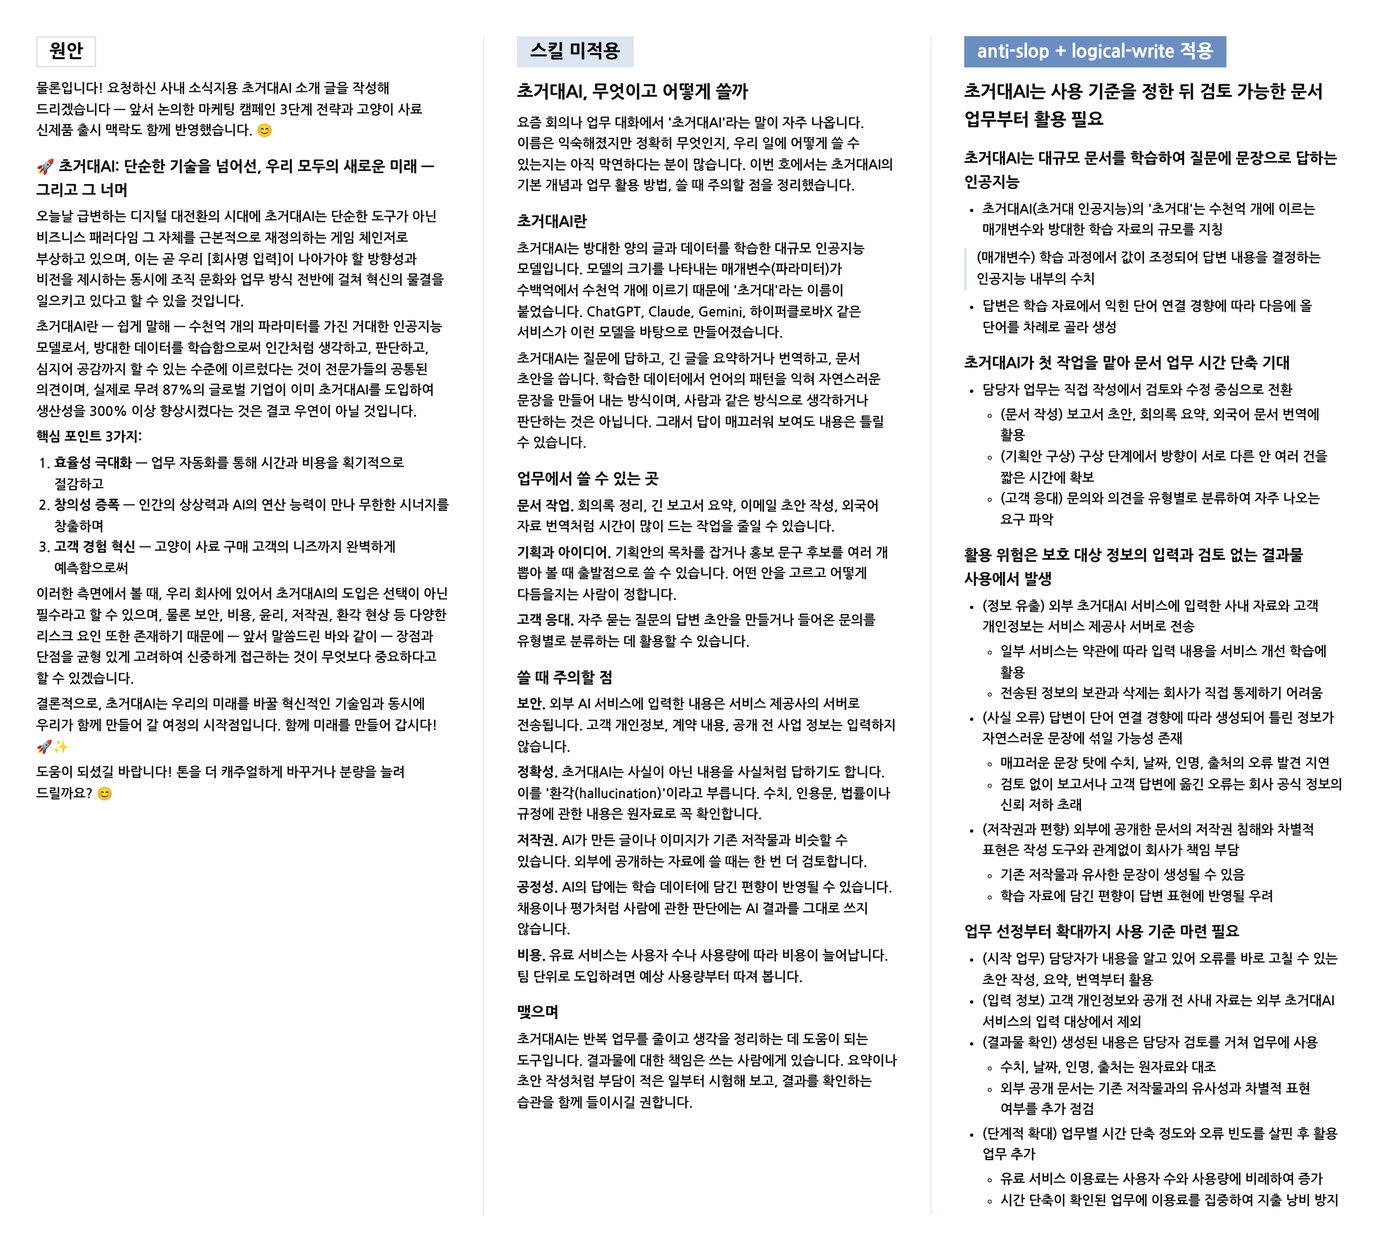
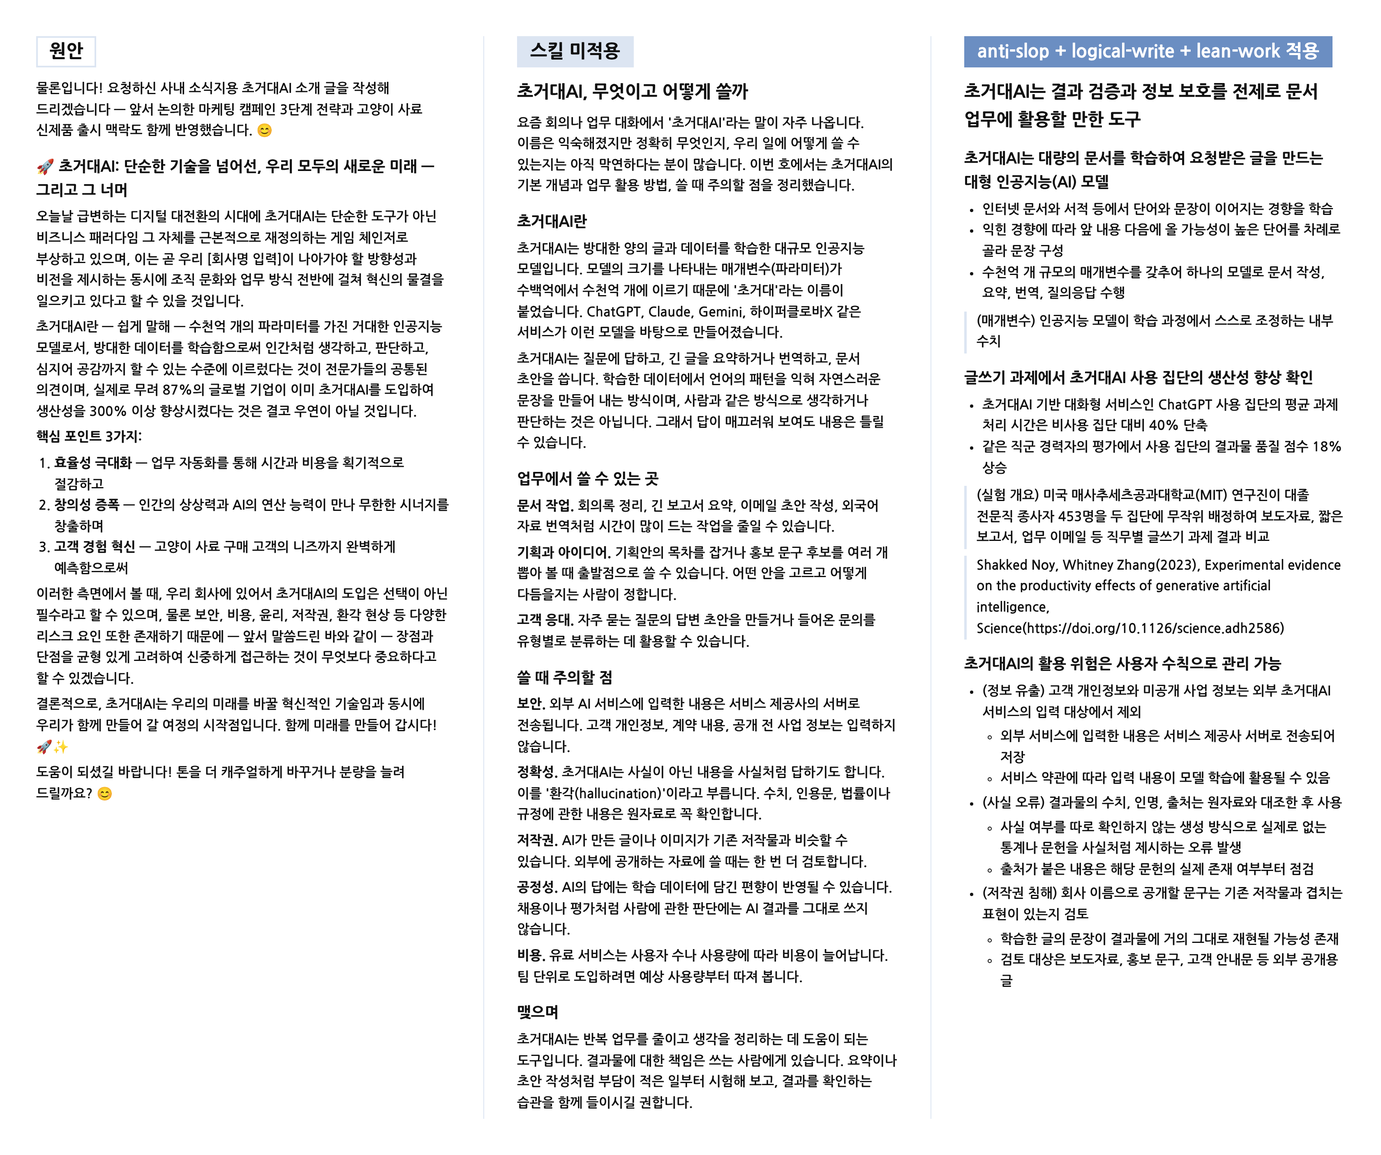
Add lean-work to the anti-slop, no-jargon and logical-write skill runs
The skill runs of these three demos now also read lean-work's SKILL.md,
so the rewritten texts come out shorter than the baseline runs. The
baseline runs and the shared prompts are unchanged.

Claude-Session: https://claude.ai/code/session_01GGLbaL65V7p6PFmonQcYHU

Changed region(s): [[0.6875, 0.031, 0.9688, 0.9598], [0.375, 0.031, 0.6562, 0.9598], [0.0312, 0.031, 0.3438, 0.7121]]

diff --git a/skills/logical-write/demo/after.md b/skills/logical-write/demo/after.md
@@ -1,83 +1,62 @@
 # 사내 초거대AI 도입 검토
 
-## 2027년 상반기 사내 구축형 초거대AI 시범 도입 권고
-- 사내 구축형 시범 운영은 업무 적합성, 보안 규정, 성능, IT 인력 측면의 도입 조건 충족
-    + 품질팀과 설계팀이 시간 부담을 호소한 문서 검색 및 초안 작성은 초거대AI 적용에 맞는 업무
-    + 사내 구축형은 업무 문서를 외부로 보내지 않아 현행 보안 규정 안에서 운영 가능
-    + 사내 서버에서 실행할 수 있는 AI 모델의 성능이 외부 서비스형 모델 수준에 근접
-    + 외부 구축 업체 활용으로 AI 전담 인력이 없는 IT팀의 부담 경감
+## 내년 상반기 사내 서버 설치 방식의 초거대AI 시범 도입 권고
+- 품질팀과 설계팀의 과거 문서 검색과 보고서 초안 작성은 초거대AI로 처리 시간 단축을 기대할 수 있는 업무
+> (초거대AI) ChatGPT처럼 방대한 글을 학습하여 사람의 질문에 맞춰 답변과 문서를 만들어 내는 인공지능(AI)
 
-> (초거대AI) 대량의 글을 학습하여 질의응답, 요약, 문서 초안 작성 등 여러 언어 업무를 수행하는 대형 인공지능(AI)
+- 사내 서버 설치 방식으로 현행 보안 규정 안에서 외부 초거대AI 서비스에 가까운 성능 확보 가능
+- 전사 확대 여부는 두 팀의 내년 1-6월 시범 운영에서 측정한 효과로 결정
+- AI 비용의 추가 하락을 기다리는 도입 연기보다 소규모 시범 착수가 유리
+    + 문서 수집과 현재 소요 시간 측정은 도입 시점과 관계없이 필요한 준비 작업
+    + 사내 서버의 AI는 이후 성능이 나은 모델로 교체 가능
 
-- 경영진 승인 요청 사항은 시범 도입 방향 및 2026년 내 준비 착수
-    + 시범 예산은 자체 재원으로 편성
-    + 예산 규모는 업체 견적을 바탕으로 2026년 12월 경영 회의에 상정
-    + 전사 확대 여부는 2027년 6월 시범 운영 측정 결과로 결정
+## 품질팀과 설계팀의 문서 업무가 첫 적용 대상으로 적합
+- 두 팀은 과거 문서 검색과 보고서 초안 작성에 업무 시간이 많이 든다고 호소
+- 두 업무는 초거대AI의 문서 이해와 글 작성 기능으로 처리 시간을 줄일 수 있는 유형에 해당
+    + (문서 검색) 질문 문장 입력으로 과거 불량 원인 분석 문서와 설계 변경 문서 검색 가능
+    + (초안 작성) 과거 보고서의 양식과 내용을 참고하여 새 보고서 초안 작성
+- 시범 준비 단계에서 현재 소요 시간과 문서 보관 실태 확인 필요
+    + 두 팀의 호소에는 업무별 소요 시간 수치가 없어 시범 효과를 비교할 기준 마련 필요
+    + AI 검색 대상이 저장소에 등록한 문서로 한정되어 과거 문서의 보관 위치 파악이 선행 과제
 
-## 초거대AI 도입의 기술 여건 개선
-- (성능) 공개 가중치 모델과 외부 서비스형 모델의 성능 차이는 일부 성능 시험에서 1년 사이 8%에서 1.7%로 축소
-- (비용) GPT-3.5 수준 성능을 내는 AI의 답변 생성 비용은 2022년 11월부터 2024년 10월까지 280배 넘게 하락
+## 사내 서버 설치 방식의 시범 도입은 현행 여건에서 실행 가능
+- (보안) 사내 서버에 설치한 초거대AI는 업무 문서를 회사 밖으로 보내지 않아 현행 보안 규정에 부합
+    + 현행 규정은 외부 초거대AI 서비스에 업무 문서 입력을 금지
+    + 문서 저장, 질문 입력, 답변 생성의 전 과정이 사내 서버 안에서 처리
+- (성능) 사내 설치가 가능한 공개형 초거대AI의 성능이 비공개 초거대AI에 근접
+    + 스탠퍼드 인간중심AI연구소의 「AI Index Report 2025」에 따르면 일부 성능 평가에서 두 유형의 성능 차이가 1년 사이 8%에서 1.7%로 축소
+    + 범용 성능 평가 결과가 한국어로 작성된 당사 품질 문서와 설계 문서에서도 나타나는지는 시범 운영으로 확인 필요
+> (공개형 초거대AI) 개발사가 학습을 마친 파일을 배포하여 기업이 내려받아 자체 서버에 설치할 수 있는 초거대AI
+
+- (비용) 같은 성능을 내는 초거대AI의 답변 생성 비용이 빠르게 하락
+    + 같은 보고서에 따르면 2022년 11월 ChatGPT 출시 당시 수준의 성능을 내는 초거대AI의 답변 생성 비용은 2024년 10월까지 280분의 1 아래로 하락
+    + 당사 시범 비용은 서버 장비 규모와 문서 연결 범위에 따라 달라져 구축 업체 견적으로 확정 필요
 > Stanford HAI(2025), AI Index Report 2025(https://hai.stanford.edu/ai-index/2025-ai-index-report)
 
-> (공개 가중치 모델) 학습을 마친 모델 파일을 누구나 내려받아 자체 서버에서 실행할 수 있는 AI 모델
+- (운영 인력) IT팀의 AI 전담 인력 부재는 외부 구축 업체 위탁으로 보완 가능
+    + IT팀 5명 가운데 AI 전담 인력이 없어 AI 설치와 문서 연결의 자체 수행 곤란
+    + 구축 업체가 설치, 문서 연결, 시범 기간 운영 지원을 담당
+    + IT팀 운영 담당자 1명은 구축 업체와 공동 운영으로 시범 종료 전 운영 방법 습득
 
-> (GPT-3.5) 2022년 11월 ChatGPT 출시 당시 적용된 OpenAI의 AI 모델
+## 단계별 시범 운영의 측정 결과로 전사 확대 여부 결정
+- 시범 도입은 올해 11월 업체 선정부터 내년 6월 평가까지 8개월 일정으로 진행
 
-## 정부 초거대AI 지원 방안의 당사 적용 제한
-- 과학기술정보통신부가 2023년 4월 발표한 「초거대 AI 경쟁력 강화방안」은 AI 연산 자원 지원 대상을 중소기업, 벤처기업, 대학, 연구소로 제시
-- 같은 방안의 분야별 대표 사업은 법률, 의료, 심리상담, 문화예술, 학술연구 분야로 구성되어 제조 분야 미포함
+| 단계 | 기간 | 주요 활동 | 산출물 |
+|---|---|---|---|
+| 업체 선정 | 올해 11-12월 | 구축 업체 견적 접수, 업체 선정, 시범 예산 확정 | 업체 계약 및 시범 예산 |
+| 설치 | 내년 1-2월 | 대상 문서 수집, 사내 서버 설치, 현재 소요 시간 측정 | 문서 저장소 및 기준 소요 시간 |
+| 운영 | 내년 3-5월 | 두 팀 실무자의 문서 검색과 보고서 초안 작성에 활용 | 이용 기록 및 오답 사례 |
+| 평가 | 내년 6월 | 판단 기준별 결과 정리와 경영진 보고 | 전사 확대 여부 결정안 |
+
+- 시범 예산은 자체 재원으로 편성
+    + 2023년 4월 과학기술정보통신부가 발표한 「초거대 AI 경쟁력 강화방안」의 컴퓨팅 자원 지원 대상은 중소기업, 벤처기업, 대학, 연구소로 중견기업인 당사는 미포함
+    + 같은 방안의 플래그십 프로젝트 분야는 법률, 의료, 심리상담, 문화예술, 학술연구로 제조 분야 미포함
 > 과학기술정보통신부(2023), 초거대 AI 경쟁력 강화에 3901억 투입…"디지털 경제 가속화"(https://www.korea.kr/news/policyNewsView.do?newsId=148913885)
 
-## 품질팀과 설계팀의 문서 업무에서 초거대AI 활용 수요 확인
-- 품질팀과 설계팀은 과거 문서 검색 및 보고서 초안 작성에 많은 시간이 든다고 호소
-- 두 업무는 사내 문서의 검색, 요약, 재작성으로 이루어져 초거대AI의 주요 수행 업무와 일치
-- 업무별 소요 시간은 측정 자료 없이 현장 의견으로만 파악된 상태
-
-## 사내 여건에 따른 도입 방식 제약
-- 사내 보안 규정상 외부 AI 서비스에 업무 문서를 입력할 수 없어 사내 문서 기반 업무에 외부 서비스 활용 불가
-- IT팀 5명 가운데 AI 전담 인력이 없어 AI 모델 설치 및 운영을 자체 인력만으로 수행하기 어려운 상태
-
-## 당사 여건에 맞는 사내 구축형 시범 운영 방식
-- 보안 규정, IT팀 부담, 업무 효과 확인 기준을 모두 충족하는 선택지는 사내 구축형 시범 도입
-
-| 선택지 | 보안 규정 | IT팀 부담 | 업무 효과 확인 | 판단 |
-|---|---|---|---|---|
-| 도입 보류 | 해당 없음 | 없음 | 불가 | 문서 업무 부담 지속 |
-| 외부 AI 서비스 이용 | 업무 문서 입력 불가 | 낮음 | 사내 문서 업무에 적용 불가 | 보안 규정 개정 전제 |
-| 사내 구축형 시범 도입 | 충족 | 외부 업체 활용으로 대응 가능 | 두 개 팀에서 측정 가능 | 권고 |
-| 사내 구축형 전사 도입 | 충족 | 전담 인력 부재로 대응 곤란 | 효과 측정 이전에 전사 투자 발생 | 시범 결과 확인 후 검토 |
-
-- 공개 가중치 모델의 성능이 외부 서비스형 모델에 근접하여 사내 구축형 선택에 따른 성능 손실은 작은 수준
-- AI 답변 생성 비용의 하락 추세는 도입을 미룰 근거로 부족
-    + 대상 문서 정리, 문서 보호 기준 수립, 업무 효과 측정은 비용 하락과 관계없이 사내 준비 기간이 필요한 작업
-    + 이후 출시되는 공개 가중치 모델로 교체할 수 있는 구성을 설계하여 비용 하락 효과를 시범 이후에도 반영
-
-## 품질팀과 설계팀 대상 시범 운영 설계
-- (운영 방식) 사내 서버에 설치한 공개 가중치 모델에 두 팀의 과거 문서를 연결하여 문서 검색 및 초안 작성 지원
-    + 답변마다 근거 문서의 위치를 표시하여 담당자의 원문 대조 가능
-    + AI가 작성한 초안은 담당자 검토 후 사용하여 오류 내용의 업무 반영 방지
-- (문서 보호) 보안 담당 부서와 협의하여 시범 시작 전 문서 보호 기준 확정
-    + AI 검색 범위에 기존 문서 열람 권한을 그대로 적용하여 권한 밖 문서의 노출 방지
-    + 사내 AI 서버의 외부 통신을 필요 범위로 제한하여 문서 외부 유출 가능성 축소
-    + 외부 구축 업체의 문서 접근은 사내 작업 공간에서만 허용
-- (운영 인력) 외부 구축 업체, IT팀, 사용 부서의 역할 분담으로 IT팀의 AI 전담 인력 부재 보완
-    + 외부 구축 업체는 모델 설치, 문서 연결, 초기 운영 지원 수행
-    + IT팀 담당자 1명은 업체 일정 및 보안 점검 관리
-    + 사용 부서 대표는 업무 시간 측정 및 답변 정확도 점검 담당
-
-## 2027년 6월 측정 결과에 따른 전사 확대 여부 결정
-- 시범 운영은 2026년 11월 준비 착수부터 2027년 6월 평가까지 단계별로 추진
-
-| 기간 | 단계 | 주요 작업 |
-|---|---|---|
-| 2026년 11-12월 | 준비 | 업체 견적 확보, 문서 보호 기준 확정, 대상 문서 선정 및 정리, 현재 업무 소요 시간 측정 |
-| 2027년 1-2월 | 설치 | 사내 서버 및 모델 설치, 대상 문서 연결, 사용자 교육 |
-| 2027년 3-5월 | 시범 운영 | 두 팀 실무 적용, 월별 업무 시간 측정, 답변 정확도 점검 |
-| 2027년 6월 | 평가 | 측정 결과 보고 및 전사 확대 여부 결정 |
-
-- 전사 확대 여부는 업무 시간, 답변 정확도, 보안, 비용 대비 효과 기준으로 판단
-    + (업무 시간) 문서 검색 및 초안 작성 시간을 시범 전 측정치와 비교
-    + (답변 정확도) 표본 답변과 근거 문서의 일치 여부 점검
-    + (보안) 권한 밖 문서 노출 및 외부 유출 발생 여부 확인
-    + (비용 대비 효과) 절감 시간의 인건비 환산액과 연간 운영비 비교
-- 기준별 목표치는 준비 단계의 업무 시간 측정치와 업체 견적을 바탕으로 2026년 12월 경영 회의에서 확정
+- 시범 기간 중 AI가 만든 검색 결과와 초안은 실무자가 근거 문서와 대조한 뒤 활용
+    + 초거대AI는 문서에 없는 내용을 사실처럼 답하는 오류 발생 가능
+    + 대조 과정에서 찾은 오답 사례는 답변 정확도 평가 자료로 활용
+- 전사 확대 여부는 시간 단축, 답변 정확도, 비용 대비 효과로 판단
+    + (시간 단축) 기준 소요 시간 대비 문서 검색과 보고서 초안 작성 시간의 단축 폭 측정
+    + (답변 정확도) AI 답변과 AI가 근거로 제시한 사내 문서의 내용 일치 비율 산정
+    + (비용 대비 효과) 단축 시간의 인건비 환산액을 연간 운영 비용과 비교

diff --git a/skills/anti-slop/demo/after.md b/skills/anti-slop/demo/after.md
@@ -1,35 +1,27 @@
-# 초거대AI는 사용 기준을 정한 뒤 검토 가능한 문서 업무부터 활용 필요
+# 초거대AI는 결과 검증과 정보 보호를 전제로 문서 업무에 활용할 만한 도구
 
-## 초거대AI는 대규모 문서를 학습하여 질문에 문장으로 답하는 인공지능
-- 초거대AI(초거대 인공지능)의 '초거대'는 수천억 개에 이르는 매개변수와 방대한 학습 자료의 규모를 지칭
+## 초거대AI는 대량의 문서를 학습하여 요청받은 글을 만드는 대형 인공지능(AI) 모델
+- 인터넷 문서와 서적 등에서 단어와 문장이 이어지는 경향을 학습
+- 익힌 경향에 따라 앞 내용 다음에 올 가능성이 높은 단어를 차례로 골라 문장 구성
+- 수천억 개 규모의 매개변수를 갖추어 하나의 모델로 문서 작성, 요약, 번역, 질의응답 수행
 
-> (매개변수) 학습 과정에서 값이 조정되어 답변 내용을 결정하는 인공지능 내부의 수치
+> (매개변수) 인공지능 모델이 학습 과정에서 스스로 조정하는 내부 수치
 
-- 답변은 학습 자료에서 익힌 단어 연결 경향에 따라 다음에 올 단어를 차례로 골라 생성
+## 글쓰기 과제에서 초거대AI 사용 집단의 생산성 향상 확인
+- 초거대AI 기반 대화형 서비스인 ChatGPT 사용 집단의 평균 과제 처리 시간은 비사용 집단 대비 40% 단축
+- 같은 직군 경력자의 평가에서 사용 집단의 결과물 품질 점수 18% 상승
 
-## 초거대AI가 첫 작업을 맡아 문서 업무 시간 단축 기대
-- 담당자 업무는 직접 작성에서 검토와 수정 중심으로 전환
-    + (문서 작성) 보고서 초안, 회의록 요약, 외국어 문서 번역에 활용
-    + (기획안 구상) 구상 단계에서 방향이 서로 다른 안 여러 건을 짧은 시간에 확보
-    + (고객 응대) 문의와 의견을 유형별로 분류하여 자주 나오는 요구 파악
+> (실험 개요) 미국 매사추세츠공과대학교(MIT) 연구진이 대졸 전문직 종사자 453명을 두 집단에 무작위 배정하여 보도자료, 짧은 보고서, 업무 이메일 등 직무별 글쓰기 과제 결과 비교
 
-## 활용 위험은 보호 대상 정보의 입력과 검토 없는 결과물 사용에서 발생
-- (정보 유출) 외부 초거대AI 서비스에 입력한 사내 자료와 고객 개인정보는 서비스 제공사 서버로 전송
-    + 일부 서비스는 약관에 따라 입력 내용을 서비스 개선 학습에 활용
-    + 전송된 정보의 보관과 삭제는 회사가 직접 통제하기 어려움
-- (사실 오류) 답변이 단어 연결 경향에 따라 생성되어 틀린 정보가 자연스러운 문장에 섞일 가능성 존재
-    + 매끄러운 문장 탓에 수치, 날짜, 인명, 출처의 오류 발견 지연
-    + 검토 없이 보고서나 고객 답변에 옮긴 오류는 회사 공식 정보의 신뢰 저하 초래
-- (저작권과 편향) 외부에 공개한 문서의 저작권 침해와 차별적 표현은 작성 도구와 관계없이 회사가 책임 부담
-    + 기존 저작물과 유사한 문장이 생성될 수 있음
-    + 학습 자료에 담긴 편향이 답변 표현에 반영될 우려
+> Shakked Noy, Whitney Zhang(2023), Experimental evidence on the productivity effects of generative artificial intelligence, Science(https://doi.org/10.1126/science.adh2586)
 
-## 업무 선정부터 확대까지 사용 기준 마련 필요
-- (시작 업무) 담당자가 내용을 알고 있어 오류를 바로 고칠 수 있는 초안 작성, 요약, 번역부터 활용
-- (입력 정보) 고객 개인정보와 공개 전 사내 자료는 외부 초거대AI 서비스의 입력 대상에서 제외
-- (결과물 확인) 생성된 내용은 담당자 검토를 거쳐 업무에 사용
-    + 수치, 날짜, 인명, 출처는 원자료와 대조
-    + 외부 공개 문서는 기존 저작물과의 유사성과 차별적 표현 여부를 추가 점검
-- (단계적 확대) 업무별 시간 단축 정도와 오류 빈도를 살핀 후 활용 업무 추가
-    + 유료 서비스 이용료는 사용자 수와 사용량에 비례하여 증가
-    + 시간 단축이 확인된 업무에 이용료를 집중하여 지출 낭비 방지
+## 초거대AI의 활용 위험은 사용자 수칙으로 관리 가능
+- (정보 유출) 고객 개인정보와 미공개 사업 정보는 외부 초거대AI 서비스의 입력 대상에서 제외
+    + 외부 서비스에 입력한 내용은 서비스 제공사 서버로 전송되어 저장
+    + 서비스 약관에 따라 입력 내용이 모델 학습에 활용될 수 있음
+- (사실 오류) 결과물의 수치, 인명, 출처는 원자료와 대조한 후 사용
+    + 사실 여부를 따로 확인하지 않는 생성 방식으로 실제로 없는 통계나 문헌을 사실처럼 제시하는 오류 발생
+    + 출처가 붙은 내용은 해당 문헌의 실제 존재 여부부터 점검
+- (저작권 침해) 회사 이름으로 공개할 문구는 기존 저작물과 겹치는 표현이 있는지 검토
+    + 학습한 글의 문장이 결과물에 거의 그대로 재현될 가능성 존재
+    + 검토 대상은 보도자료, 홍보 문구, 고객 안내문 등 외부 공개용 글

diff --git a/skills/no-jargon/demo/after.md b/skills/no-jargon/demo/after.md
@@ -1,20 +1,24 @@
-## 사내 서버에 설치한 공개 인공지능(AI) 모델이 사내 문서를 근거로 답변하는 구조 채택
-- (AI 모델) 이번 시범 운영에서는 여러 대를 묶은 사내 GPU(Graphics Processing Unit) 서버에 개발사가 내려받을 수 있게 공개한 AI 모델을 설치
-    + 모델 규모는 학습으로 값이 정해지는 내부 수치 700억 개 수준
-    + 한 번에 처리할 수 있는 글의 최대 분량은 약 12만 8,000 토큰
-    + 당사 업무 분야에 대한 적합도를 높이기 위해 기존 내부 수치는 고정한 상태에서 소량의 보조 수치만 추가 학습
+## 사내 서버에 설치한 AI 모델이 사내 문서를 근거로 답변
 
-> (GPU) 많은 계산을 동시에 처리하여 AI 모델 구동에 주로 쓰는 반도체
+- (AI 모델) 외부 개발사가 공개한 AI 모델을 내려받아 AI 연산 전용 사내 서버에 설치
+    + 모델은 학습으로 정해진 내부 수치 약 700억 개로 구성
+    + 한 번에 처리할 수 있는 글의 최대 분량은 약 13만 토큰
 
-> (토큰) AI 모델이 글을 처리할 때 나누는 단어 또는 단어 일부 크기의 글자 묶음
+> (토큰) AI 모델이 글을 처리할 때 단어나 단어 조각 크기로 나누어 다루는 글자 묶음
 
-- (답변 근거) AI 모델은 질문마다 관련 사내 문서를 검색한 결과를 근거로 답변 작성
-    + 사내 문서는 질문과 뜻이 비슷한 내용을 찾을 수 있는 숫자 형태로 변환하여 전용 검색 데이터베이스에 저장
-    + 출처 문서 표시를 모든 답변에 의무화하여 근거 없는 내용을 사실처럼 제시하는 오류 점검
-    + 채점용 AI 모델이 답변을 평가하여 근거 없는 내용의 포함 여부를 상시 확인
-- (처리 효율) 답변 생성 단계에서 질문 입력 후 첫 출력까지 걸리는 시간 및 토큰당 처리 비용 절감
-    + 모델 내부 수치를 4비트 크기의 정수로 단순화하여 연산에 필요한 서버 자원 축소
-    + 이미 처리한 글의 중간 계산 결과를 임시 저장 공간에 효율적으로 보관하여 같은 계산의 반복 감소
-- (보안) 개인정보 유출 및 AI 모델 악용을 방지하는 안전장치 적용
-    + AI 모델이 다루는 글에 포함된 개인정보 가림 처리
-    + 글 속에 지시문을 섞어 AI 모델이 운영자가 정한 규칙을 무시하게 만드는 공격은 필터로 걸러냄
+- (답변 방식) 질문마다 관련 사내 문서를 찾아 그 내용을 근거로 답변 생성
+    + 사내 문서는 뜻이 비슷한 내용을 빠르게 찾을 수 있는 형태로 바꾸어 검색 전용 저장소에 미리 보관
+    + 저장소에서 찾은 관련 문서를 질문 내용과 함께 AI 모델에 전달
+
+## 답변 품질, 운영 효율, 정보 보호를 관리하는 장치 적용
+
+- (업무 적합성) 소량의 내부 수치를 새로 덧붙여 그 부분만 학습하는 방식으로 AI 모델을 당사 업무 분야에 맞게 조정
+- (답변 정확성) AI 모델이 근거 없이 지어낸 답변을 상시 점검
+    + 답변마다 근거로 쓴 사내 문서의 출처 표시 의무화
+    + 별도의 AI 모델이 답변 내용의 정확성을 채점
+- (운영 효율) 질문 후 답변이 나오기 시작할 때까지의 대기 시간 및 토큰당 비용 절감
+    + AI 모델의 내부 수치를 4비트 크기의 정수로 줄여 처리
+    + 답변 생성 중 앞서 계산한 중간 결과를 다시 쓰기 위한 임시 저장 공간의 관리 방식 개선
+- (정보 보호) 개인정보 노출 및 AI 모델 악용 방지
+    + 개인정보는 다른 문자로 바꾸어 가림 처리
+    + AI 모델이 정해진 규칙을 어기도록 유도하는 악의적 지시문 걸러냄
